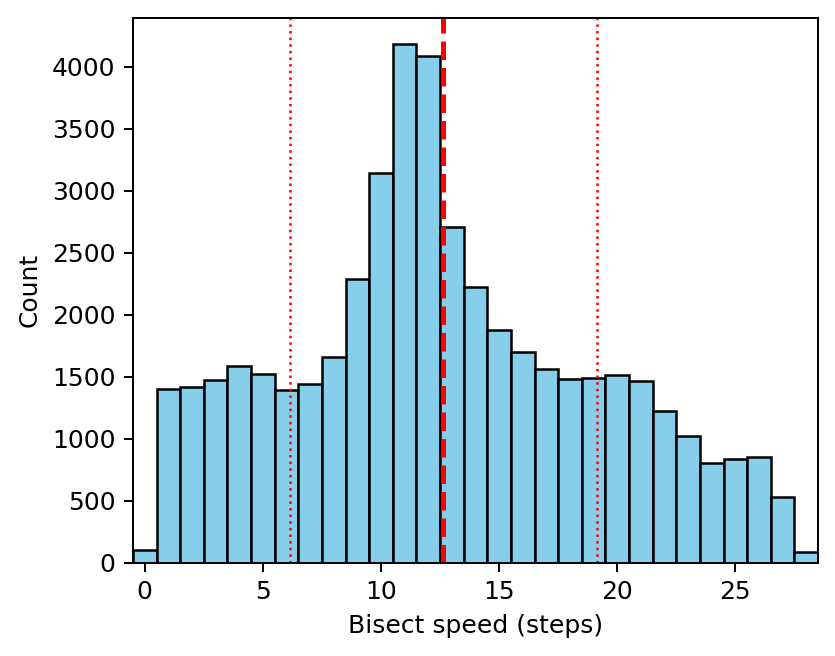
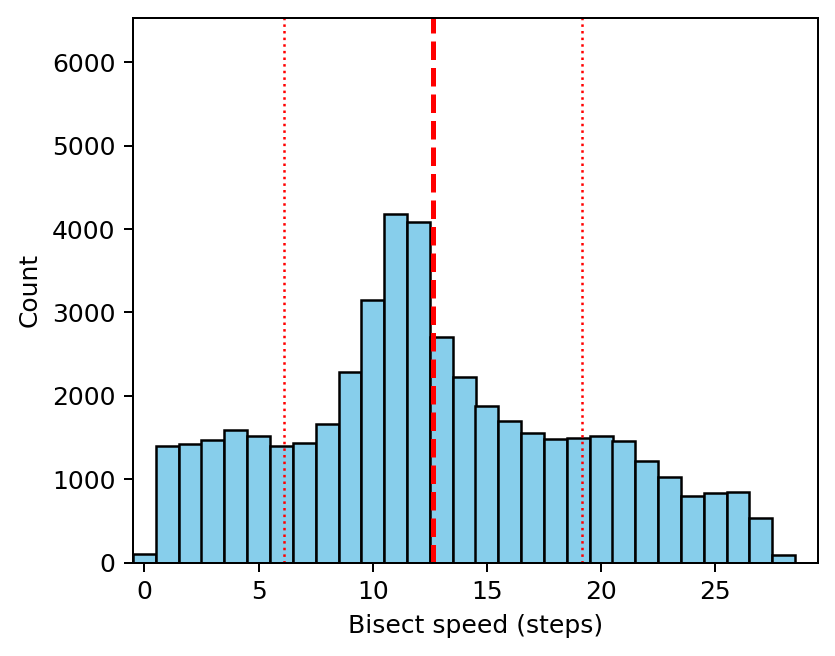
Align axis limits on bisect speed graphs
When viewing the four separate bisect speed graphs for a particular
language it's convenient if the x and y axes have the same limits for
comparison purposes.

This change sets the limits to the maximum of all the graphs, so that
they're all the same.

diff --git a/graphs.py b/graphs.py
@@ -186,84 +186,33 @@ plt.ylim(ylim)
 plot.save(file_out(dir_out, count))
 count += 1
 
-# Bisect histogram commits no weighting
+# Bisect histograms
 print()
-print('Generating bisect histogram for unweighted commits')
+print('Generating bisect histograms')
 
-data = regression.Data()
-data.load_data(file_in(dir_in, 'commits'))
+data = []
+files_in = ['commits', 'commits-weighted', 'lines-weighted', 'blocks-weighted']
+for pos in range(4):
+	data.append(regression.Data())
+	data[pos].load_data(file_in(dir_in, files_in[pos]))
 
-plot = bisectplot.Plot(dpi=histogram_dpi)
+print('Calculating axes limits')
+x_max = max(max(item.steps_x) for item in data)
+y_max = max(max(item.steps_y) for item in data)
 
-plot.addSubplot()
-#plot.setTitle('Regression distribution by commits')
-plot.setAxes("Bisect speed (steps)", "Count")
+for pos in range(4):
+	print('Generating bisect histogram for {}'.format(files_in[pos]))
 
-plot.addBar(data.steps_x, data.steps_y, 'SkyBlue', True)
-plot.addMeanSdBars(data.steps_mean, data.steps_sd)
+	plot = bisectplot.Plot(dpi=histogram_dpi)
 
-plot.save(file_out(dir_out, count))
-count += 1
+	plot.addSubplot()
+	plot.setAxes("Bisect speed (steps)", "Count")
+	plot.setLimits([-0.5, x_max + 0.5], [0, y_max + 1])
 
-# Bisect histogram commits weighted
-print()
-print('Generating bisect histogram for weighted commits')
+	plot.addBar(data[pos].steps_x, data[pos].steps_y, 'SkyBlue', True)
+	plot.addMeanSdBars(data[pos].steps_mean, data[pos].steps_sd)
 
-data = regression.Data()
-data.load_data(file_in(dir_in, 'commits-weighted'))
-
-plot = bisectplot.Plot(dpi=histogram_dpi)
-
-plot.addSubplot()
-#plot.setTitle('Regression distribution by commits')
-plot.setAxes("Bisect speed (steps)", "Count")
-
-plot.addBar(data.steps_x, data.steps_y, 'SkyBlue', True)
-plot.addMeanSdBars(data.steps_mean, data.steps_sd)
-
-plot.save(file_out(dir_out, count))
-count += 1
-
-# Bisect histogram lines weighted
-print()
-print('Generating bisect histogram for weighted lines')
-
-data = regression.Data()
-data.load_data(file_in(dir_in, 'lines-weighted'))
-
-plot = bisectplot.Plot(dpi=histogram_dpi)
-
-plot.addSubplot()
-#plot.setTitle('Regression distribution by commits')
-plot.setAxes("Bisect speed (steps)", "Count")
-
-plot.addBar(data.steps_x, data.steps_y, 'SkyBlue', True)
-plot.addMeanSdBars(data.steps_mean, data.steps_sd)
-
-plot.save(file_out(dir_out, count))
-count += 1
-
-# Bisect histogram blocks weighted
-print()
-print('Generating bisect histogram for weighted blocks')
-
-data = regression.Data()
-data.load_data(file_in(dir_in, 'blocks-weighted'))
-
-plot = bisectplot.Plot(dpi=histogram_dpi)
-
-plot.addSubplot()
-#plot.setTitle('Regression distribution by commits')
-plot.setAxes("Bisect speed (steps)", "Count")
-
-plot.addBar(data.steps_x, data.steps_y, 'SkyBlue', True)
-plot.addMeanSdBars(data.steps_mean, data.steps_sd)
-
-plot.save(file_out(dir_out, count))
-count += 1
-
-
-
-
+	plot.save(file_out(dir_out, count))
+	count += 1
 
 

diff --git a/bisectlib/plot.py b/bisectlib/plot.py
@@ -27,6 +27,12 @@ class Plot():
 		self.plot.set_xlabel(xaxis)
 		self.plot.set_ylabel(yaxis)
 
+	def setLimits(self, xlimit = None, ylimit = None):
+		if xlimit:
+			self.plot.set_xlim(xlimit)#
+		if ylimit:
+			self.plot.set_ylim(ylimit)
+
 	def addGraph(self, regfunc, colour):
 		points = 100
 		if regfunc.skipZero():
